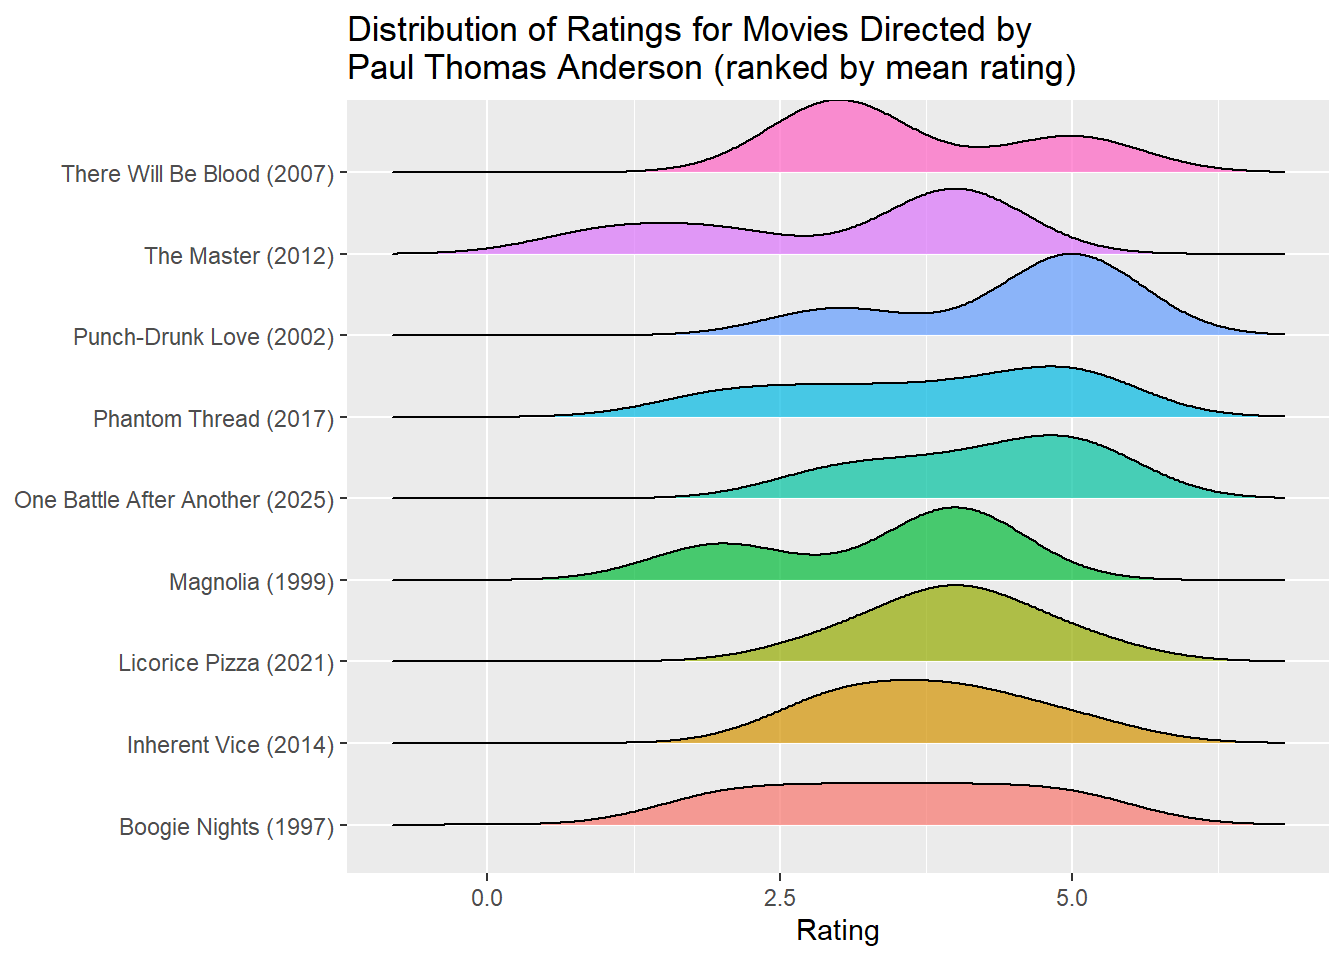
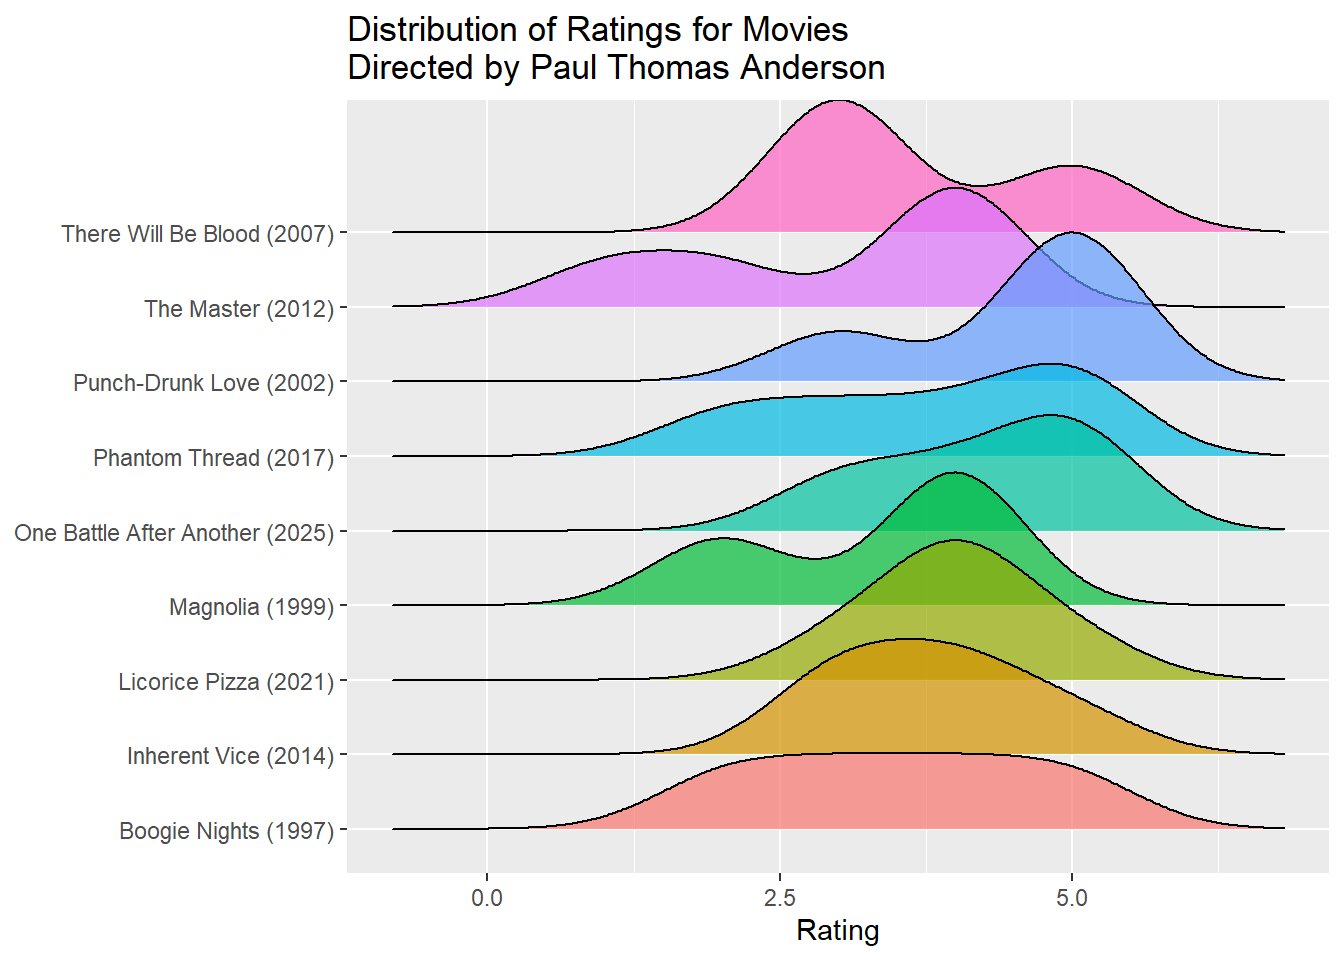
Proofreading

diff --git a/Assignment2A-KCH-Codebase.html b/Assignment2A-KCH-Codebase.html
@@ -218,7 +218,7 @@ select respondent_id, count(*) as movies_rated
 </section>
 <section id="data-import-into-r" class="level2">
 <h2 class="anchored" data-anchor-id="data-import-into-r">Data Import into R</h2>
-<p>Importing data from the local database into R will be guided by this support article from Posit: (<a href="https://support.posit.co/hc/en-us/articles/214510788-Setting-up-R-to-connect-to-SQL-Server" class="uri">https://support.posit.co/hc/en-us/articles/214510788-Setting-up-R-to-connect-to-SQL-Server</a>). Additionally, the help files for RPostgres and the website for RPostgres (<a href="https://rpostgres.r-dbi.org/" class="uri">https://rpostgres.r-dbi.org/</a>) will provide important guidance for data import. Originally, the database password verification was achieved via a method in the posit support document above, in which the user is prompted for a password via the dialog box. However, this created issues when rendering the Quarto document to html, and therefore a new approach was needed. The old code has been commented out, and it remains as an artifact. Instead, a method using .Renviron replaces the original method as a preferred method, according to posit documentation (<a href="https://solutions.posit.co/connections/db/best-practices/managing-credentials/#use-environment-variables" class="uri">https://solutions.posit.co/connections/db/best-practices/managing-credentials/#use-environment-variables</a>).</p>
+<p>Importing data from the local database into R is guided by this support article from Posit: (<a href="https://support.posit.co/hc/en-us/articles/214510788-Setting-up-R-to-connect-to-SQL-Server" class="uri">https://support.posit.co/hc/en-us/articles/214510788-Setting-up-R-to-connect-to-SQL-Server</a>). Additionally, the help files for RPostgres and the website for RPostgres (<a href="https://rpostgres.r-dbi.org/" class="uri">https://rpostgres.r-dbi.org/</a>) provide important guidance for data import. Originally, database password verification was achieved via a method described by the Posit support document above, in which the user is prompted for a password via the dialog box at time of connection. However, this created issues when rendering the Quarto document to html, and therefore a new approach was needed. The old code has been commented out, and it remains as an artifact. Instead, a more secure method using environment variables replaces the original method (<a href="https://solutions.posit.co/connections/db/best-practices/managing-credentials/#use-environment-variables" class="uri">https://solutions.posit.co/connections/db/best-practices/managing-credentials/#use-environment-variables</a>).</p>
 <div class="cell">
 <div class="code-copy-outer-scaffold"><div class="sourceCode cell-code" id="cb3"><pre class="sourceCode r code-with-copy"><code class="sourceCode r"><span id="cb3-1"><a href="#cb3-1" aria-hidden="true" tabindex="-1"></a><span class="co">#library(DBI)</span></span>
 <span id="cb3-2"><a href="#cb3-2" aria-hidden="true" tabindex="-1"></a><span class="fu">library</span>(RPostgres)</span>
@@ -322,11 +322,11 @@ $ rating        &lt;int&gt; 5, 4, 3, 5, 4, 3, 5, 4, 3, 4, 5, 2, 3, 1, 5, 2, 4, 3
 <span id="cb11-2"><a href="#cb11-2" aria-hidden="true" tabindex="-1"></a></span>
 <span id="cb11-3"><a href="#cb11-3" aria-hidden="true" tabindex="-1"></a>num_entries <span class="ot">&lt;-</span> <span class="fu">sum</span>(<span class="sc">!</span><span class="fu">is.na</span>(df_2<span class="sc">$</span>rating_id))</span>
 <span id="cb11-4"><a href="#cb11-4" aria-hidden="true" tabindex="-1"></a></span>
-<span id="cb11-5"><a href="#cb11-5" aria-hidden="true" tabindex="-1"></a>msg <span class="ot">&lt;-</span> <span class="fu">paste</span>(<span class="st">"There are "</span>, num_missing, <span class="st">" missing ratings in this data frame and "</span>, num_entries, <span class="st">" completed ratings in this data frame."</span>)</span>
+<span id="cb11-5"><a href="#cb11-5" aria-hidden="true" tabindex="-1"></a>msg <span class="ot">&lt;-</span> <span class="fu">paste</span>(<span class="st">"There are "</span>, num_missing, <span class="st">" missing ratings in this data frame and"</span>, num_entries, <span class="st">" completed ratings in this data frame."</span>)</span>
 <span id="cb11-6"><a href="#cb11-6" aria-hidden="true" tabindex="-1"></a>           </span>
 <span id="cb11-7"><a href="#cb11-7" aria-hidden="true" tabindex="-1"></a>msg</span></code></pre></div><button title="Copy to Clipboard" class="code-copy-button"><i class="bi"></i></button></div>
 <div class="cell-output cell-output-stdout">
-<pre><code>[1] "There are  25  missing ratings in this data frame and  38  completed ratings in this data frame."</code></pre>
+<pre><code>[1] "There are  25  missing ratings in this data frame and 38  completed ratings in this data frame."</code></pre>
 </div>
 </div>
 </section>
@@ -361,25 +361,25 @@ $ rating        &lt;int&gt; 5, 4, 3, 5, 4, 3, 5, 4, 3, 4, 5, 2, 3, 1, 5, 2, 4, 3
 <div class="code-copy-outer-scaffold"><div class="sourceCode cell-code" id="cb15"><pre class="sourceCode r code-with-copy"><code class="sourceCode r"><span id="cb15-1"><a href="#cb15-1" aria-hidden="true" tabindex="-1"></a>df_2 <span class="sc">|&gt;</span></span>
 <span id="cb15-2"><a href="#cb15-2" aria-hidden="true" tabindex="-1"></a>  <span class="fu">filter</span>(rating <span class="sc">&gt;</span> <span class="dv">0</span>) <span class="sc">|&gt;</span> <span class="co">#remove null values</span></span>
 <span id="cb15-3"><a href="#cb15-3" aria-hidden="true" tabindex="-1"></a>  </span>
-<span id="cb15-4"><a href="#cb15-4" aria-hidden="true" tabindex="-1"></a>  <span class="fu">group_by</span>(movie_id) <span class="sc">|&gt;</span> <span class="co">#create grouping for the summarize to act on</span></span>
+<span id="cb15-4"><a href="#cb15-4" aria-hidden="true" tabindex="-1"></a>  <span class="fu">group_by</span>(title) <span class="sc">|&gt;</span> <span class="co">#create grouping for the summarize to act on</span></span>
 <span id="cb15-5"><a href="#cb15-5" aria-hidden="true" tabindex="-1"></a>  </span>
-<span id="cb15-6"><a href="#cb15-6" aria-hidden="true" tabindex="-1"></a>  <span class="fu">summarize</span> (<span class="at">mean_rating =</span> <span class="fu">mean</span>(rating, <span class="at">na.rm=</span><span class="cn">TRUE</span>), <span class="co">#calc mean BY movie_id</span></span>
-<span id="cb15-7"><a href="#cb15-7" aria-hidden="true" tabindex="-1"></a>             <span class="at">SD_rating =</span> stats<span class="sc">::</span><span class="fu">sd</span>(rating, <span class="at">na.rm=</span><span class="cn">TRUE</span>))<span class="sc">|&gt;</span> <span class="co">#calc SD by movie_id</span></span>
+<span id="cb15-6"><a href="#cb15-6" aria-hidden="true" tabindex="-1"></a>  <span class="fu">summarize</span> (<span class="at">mean_rating =</span> <span class="fu">mean</span>(rating, <span class="at">na.rm=</span><span class="cn">TRUE</span>), <span class="co">#calc mean BY title</span></span>
+<span id="cb15-7"><a href="#cb15-7" aria-hidden="true" tabindex="-1"></a>             <span class="at">SD_rating =</span> stats<span class="sc">::</span><span class="fu">sd</span>(rating, <span class="at">na.rm=</span><span class="cn">TRUE</span>))<span class="sc">|&gt;</span> <span class="co">#calc SD by title</span></span>
 <span id="cb15-8"><a href="#cb15-8" aria-hidden="true" tabindex="-1"></a>  </span>
 <span id="cb15-9"><a href="#cb15-9" aria-hidden="true" tabindex="-1"></a>  <span class="fu">arrange</span>(<span class="fu">desc</span>(mean_rating)) <span class="co">#sort so highest rated at top</span></span></code></pre></div><button title="Copy to Clipboard" class="code-copy-button"><i class="bi"></i></button></div>
 <div class="cell-output cell-output-stdout">
 <pre><code># A tibble: 9 × 3
-  movie_id mean_rating SD_rating
-     &lt;int&gt;       &lt;dbl&gt;     &lt;dbl&gt;
-1        7        4.5      1    
-2        1        4.25     0.957
-3        2        4        0.707
-4        3        3.8      1.30 
-5        4        3.8      0.837
-6        6        3.67     1.15 
-7        9        3.5      1.29 
-8        8        3.33     1.15 
-9        5        3        1.41 </code></pre>
+  title                           mean_rating SD_rating
+  &lt;chr&gt;                                 &lt;dbl&gt;     &lt;dbl&gt;
+1 Punch-Drunk Love (2002)                4.5      1    
+2 One Battle After Another (2025)        4.25     0.957
+3 Licorice Pizza (2021)                  4        0.707
+4 Inherent Vice (2014)                   3.8      0.837
+5 Phantom Thread (2017)                  3.8      1.30 
+6 There Will Be Blood (2007)             3.67     1.15 
+7 Boogie Nights (1997)                   3.5      1.29 
+8 Magnolia (1999)                        3.33     1.15 
+9 The Master (2012)                      3        1.41 </code></pre>
 </div>
 </div>
 <p>The distribution of ratings data is plotted in a ridge plot. Certain difficulties were encountered in the process of generating the figure. First, the legend needed to be removed, as it created visual noise without assisting in distinguishing the plotted series. Removal of the legend was accomplished by setting the ‘show.legend’ boolean to false. Inspiration for this technique was found here: <a href="https://ggplot2-book.org/maps.html#sec-polygonmaps" class="uri">https://ggplot2-book.org/maps.html#sec-polygonmaps</a>. Plotting the data as a ridgeline was inspired from a previous project and this resource: <a href="https://wilkelab.org/ggridges/articles/introduction.html" class="uri">https://wilkelab.org/ggridges/articles/introduction.html</a>.</p>
@@ -390,15 +390,16 @@ $ rating        &lt;int&gt; 5, 4, 3, 5, 4, 3, 5, 4, 3, 4, 5, 2, 3, 1, 5, 2, 4, 3
 </div>
 <div class="code-copy-outer-scaffold"><div class="sourceCode cell-code" id="cb19"><pre class="sourceCode r code-with-copy"><code class="sourceCode r"><span id="cb19-1"><a href="#cb19-1" aria-hidden="true" tabindex="-1"></a>df_2 <span class="sc">|&gt;</span></span>
 <span id="cb19-2"><a href="#cb19-2" aria-hidden="true" tabindex="-1"></a>  <span class="fu">filter</span>(rating<span class="sc">&gt;</span><span class="dv">0</span>) <span class="sc">|&gt;</span> <span class="co">#remove nulls</span></span>
-<span id="cb19-3"><a href="#cb19-3" aria-hidden="true" tabindex="-1"></a>  <span class="fu">ggplot</span>(<span class="fu">aes</span>(<span class="at">x=</span>rating, </span>
-<span id="cb19-4"><a href="#cb19-4" aria-hidden="true" tabindex="-1"></a>             <span class="at">y=</span>title, </span>
-<span id="cb19-5"><a href="#cb19-5" aria-hidden="true" tabindex="-1"></a>             <span class="at">fill=</span>title)) <span class="sc">+</span></span>
-<span id="cb19-6"><a href="#cb19-6" aria-hidden="true" tabindex="-1"></a>  <span class="fu">geom_density_ridges</span>(<span class="at">scale =</span> <span class="dv">1</span>, </span>
-<span id="cb19-7"><a href="#cb19-7" aria-hidden="true" tabindex="-1"></a>                      <span class="at">alpha=</span><span class="fl">0.7</span>, <span class="at">show.legend =</span> <span class="cn">FALSE</span>) <span class="sc">+</span></span>
-<span id="cb19-8"><a href="#cb19-8" aria-hidden="true" tabindex="-1"></a>  <span class="fu">labs</span>(<span class="at">title=</span><span class="st">"Distribution of Ratings for Movies Directed by</span><span class="sc">\n</span><span class="st">Paul Thomas Anderson (ranked by mean rating)"</span>,</span>
-<span id="cb19-9"><a href="#cb19-9" aria-hidden="true" tabindex="-1"></a>       <span class="at">x =</span> <span class="st">"Rating"</span>,</span>
-<span id="cb19-10"><a href="#cb19-10" aria-hidden="true" tabindex="-1"></a>       <span class="at">y =</span> <span class="st">"Title"</span>) <span class="sc">+</span></span>
-<span id="cb19-11"><a href="#cb19-11" aria-hidden="true" tabindex="-1"></a>  <span class="fu">ylab</span>(<span class="cn">NULL</span>)</span></code></pre></div><button title="Copy to Clipboard" class="code-copy-button"><i class="bi"></i></button></div>
+<span id="cb19-3"><a href="#cb19-3" aria-hidden="true" tabindex="-1"></a>  <span class="fu">arrange</span>(movie_id) <span class="sc">|&gt;</span></span>
+<span id="cb19-4"><a href="#cb19-4" aria-hidden="true" tabindex="-1"></a>  <span class="fu">ggplot</span>(<span class="fu">aes</span>(<span class="at">x=</span>rating, </span>
+<span id="cb19-5"><a href="#cb19-5" aria-hidden="true" tabindex="-1"></a>             <span class="at">y=</span>title, </span>
+<span id="cb19-6"><a href="#cb19-6" aria-hidden="true" tabindex="-1"></a>             <span class="at">fill=</span>title)) <span class="sc">+</span></span>
+<span id="cb19-7"><a href="#cb19-7" aria-hidden="true" tabindex="-1"></a>  <span class="fu">geom_density_ridges</span>(<span class="at">scale =</span> <span class="dv">2</span>, </span>
+<span id="cb19-8"><a href="#cb19-8" aria-hidden="true" tabindex="-1"></a>                      <span class="at">alpha=</span><span class="fl">0.7</span>, <span class="at">show.legend =</span> <span class="cn">FALSE</span>) <span class="sc">+</span></span>
+<span id="cb19-9"><a href="#cb19-9" aria-hidden="true" tabindex="-1"></a>  <span class="fu">labs</span>(<span class="at">title=</span><span class="st">"Distribution of Ratings for Movies </span><span class="sc">\n</span><span class="st">Directed by Paul Thomas Anderson"</span>,</span>
+<span id="cb19-10"><a href="#cb19-10" aria-hidden="true" tabindex="-1"></a>       <span class="at">x =</span> <span class="st">"Rating"</span>,</span>
+<span id="cb19-11"><a href="#cb19-11" aria-hidden="true" tabindex="-1"></a>       <span class="at">y =</span> <span class="st">"Title"</span>) <span class="sc">+</span></span>
+<span id="cb19-12"><a href="#cb19-12" aria-hidden="true" tabindex="-1"></a>  <span class="fu">ylab</span>(<span class="cn">NULL</span>)</span></code></pre></div><button title="Copy to Clipboard" class="code-copy-button"><i class="bi"></i></button></div>
 <div class="cell-output cell-output-stderr">
 <pre><code>Picking joint bandwidth of 0.606</code></pre>
 </div>
@@ -409,14 +410,15 @@ $ rating        &lt;int&gt; 5, 4, 3, 5, 4, 3, 5, 4, 3, 4, 5, 2, 3, 1, 5, 2, 4, 3
 </figure>
 </div>
 </div>
-<div class="code-copy-outer-scaffold"><div class="sourceCode cell-code" id="cb21"><pre class="sourceCode r code-with-copy"><code class="sourceCode r"><span id="cb21-1"><a href="#cb21-1" aria-hidden="true" tabindex="-1"></a>?geom_density_ridges</span></code></pre></div><button title="Copy to Clipboard" class="code-copy-button"><i class="bi"></i></button></div>
-<div class="cell-output cell-output-stderr">
-<pre><code>starting httpd help server ...</code></pre>
+<div class="code-copy-outer-scaffold"><div class="sourceCode cell-code" id="cb21"><pre class="sourceCode r code-with-copy"><code class="sourceCode r"><span id="cb21-1"><a href="#cb21-1" aria-hidden="true" tabindex="-1"></a><span class="co">#?geom_density_ridges</span></span></code></pre></div><button title="Copy to Clipboard" class="code-copy-button"><i class="bi"></i></button></div>
 </div>
-<div class="cell-output cell-output-stderr">
-<pre><code> done</code></pre>
-</div>
-</div>
+</section>
+<section id="findings-and-recommendations" class="level2">
+<h2 class="anchored" data-anchor-id="findings-and-recommendations">Findings and Recommendations</h2>
+<p>The initial survey mechanism for collecting data was unsuccessful, and an alternative method of synthetic data generation was employed. Rating data were generated for 7 mock respondents across 9 films using hard-coded values to retain reproducibility. An approach using quasi-random data generation was considered, but it was not pursued due to resource constraints.</p>
+<p>Additional findings include the mean rating and standard deviation of rating for each movie in the data set. The movie with the highest measured average rating was ‘Punch-Drunk Love’, with a mean of 4.5, while the movie with the lowest measured average rating was ‘The Master’, with a mean of 3.0. These high average ratings indicate a high overall affinity among mock respondents for these films.</p>
+<p>Lastly, certain procedural refinements were made along the way: storing credentials as environment variables, using a piped process to calculate mean ratings, and designing an effective database schema. Each of these practices can be integrated into a standard protocol for similar technical undertakings.</p>
+<p>While the movie release year was not an integral piece of information, one recommendation for future work could be to store this data in its own column, allowing for the arrangement of the movies in ascending or descending order by release year. Additionally, one future enhancement for data collection could be to create a connection between the database and the user inputs. This would remove the need for manual data input, which can lead to error. Lastly, standardizing the movie rating data by respondent before aggregating it by film could eliminate or account for certain respondent biases.</p>
 </section>
 
 </main>
